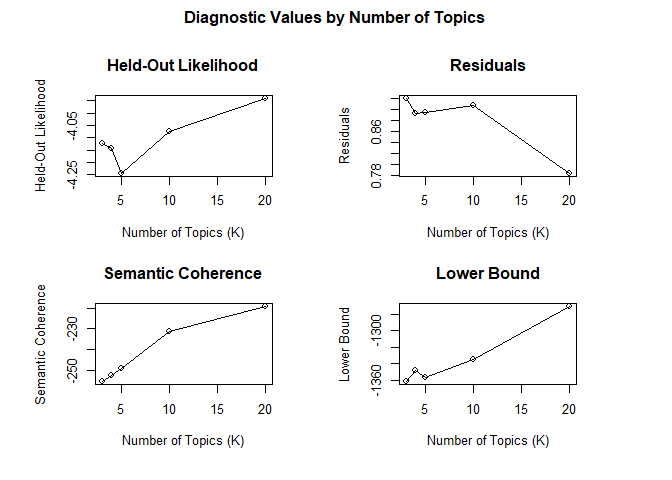
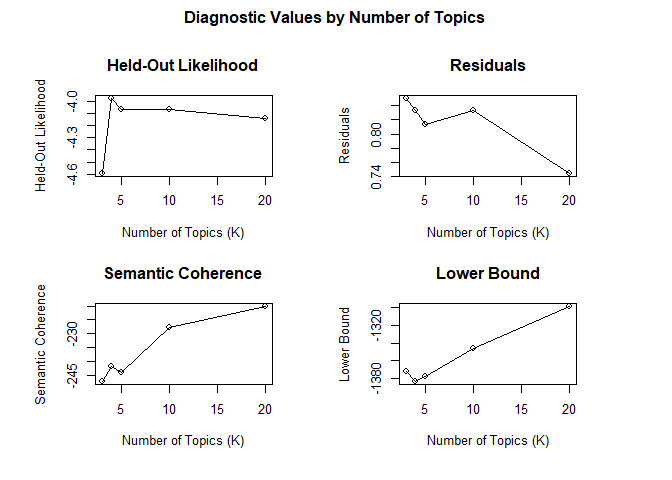
edit

diff --git a/Top_Fashion_Trends_2023.md b/Top_Fashion_Trends_2023.md
@@ -304,6 +304,8 @@ for the 2023 fashion year.
 
 **Perform kTest to choose topic count**
 
+    set.seed(1001)
+
     kTest <- searchK(documents = fashionPrep$documents, 
                  vocab = fashionPrep$vocab, 
                  K = c(3, 4, 5, 10, 20), verbose = FALSE)
